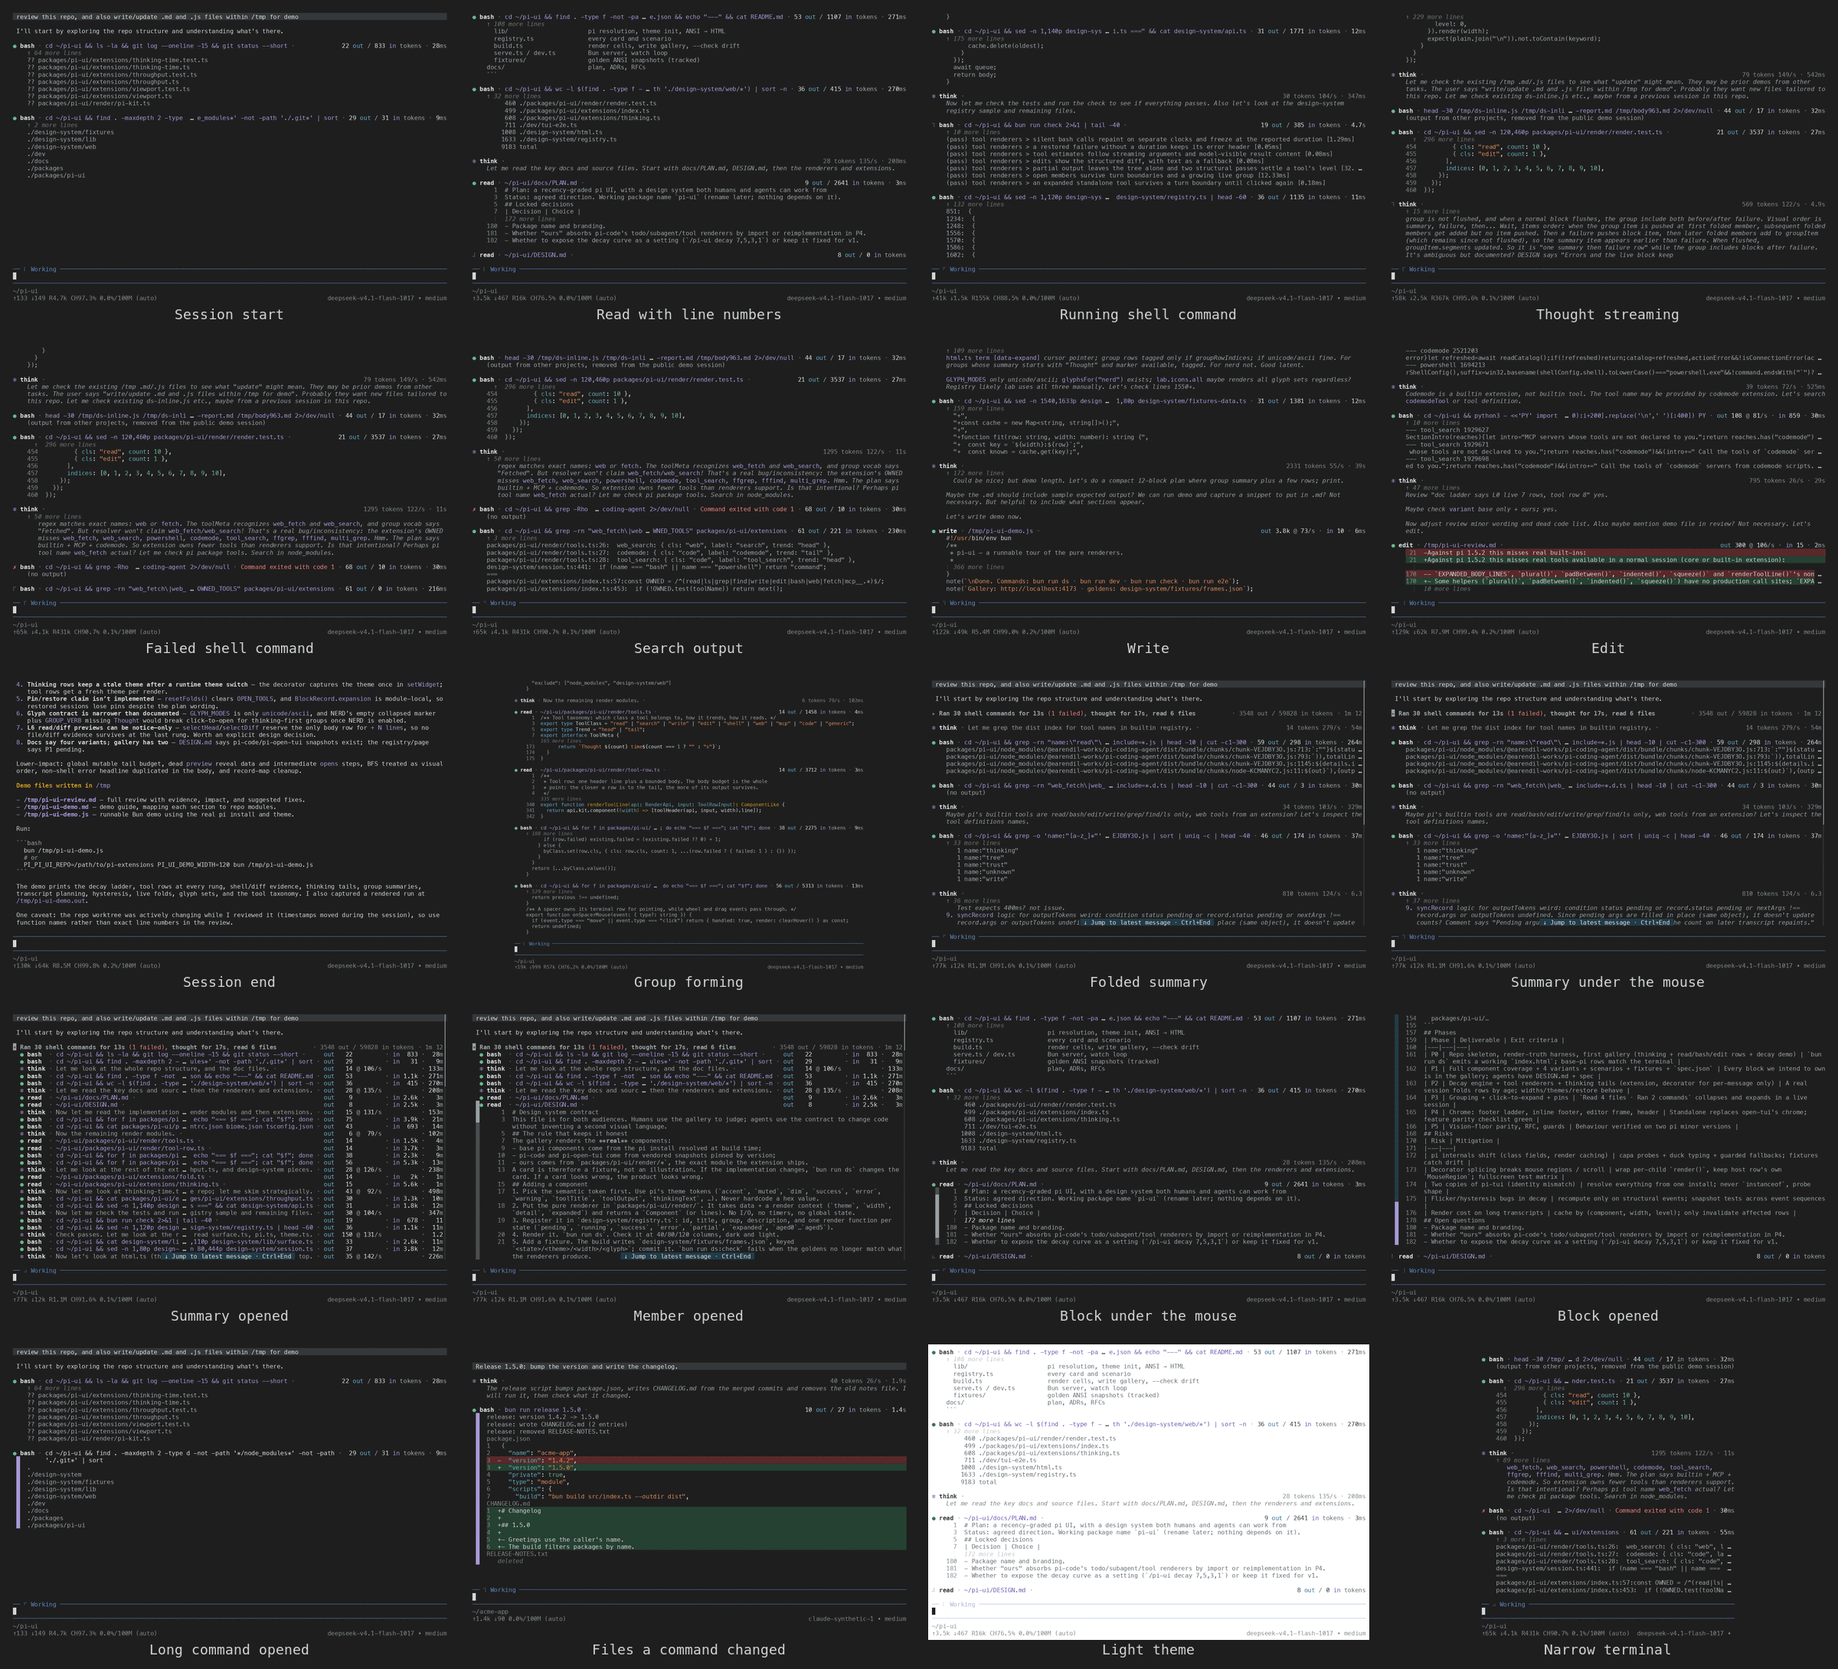
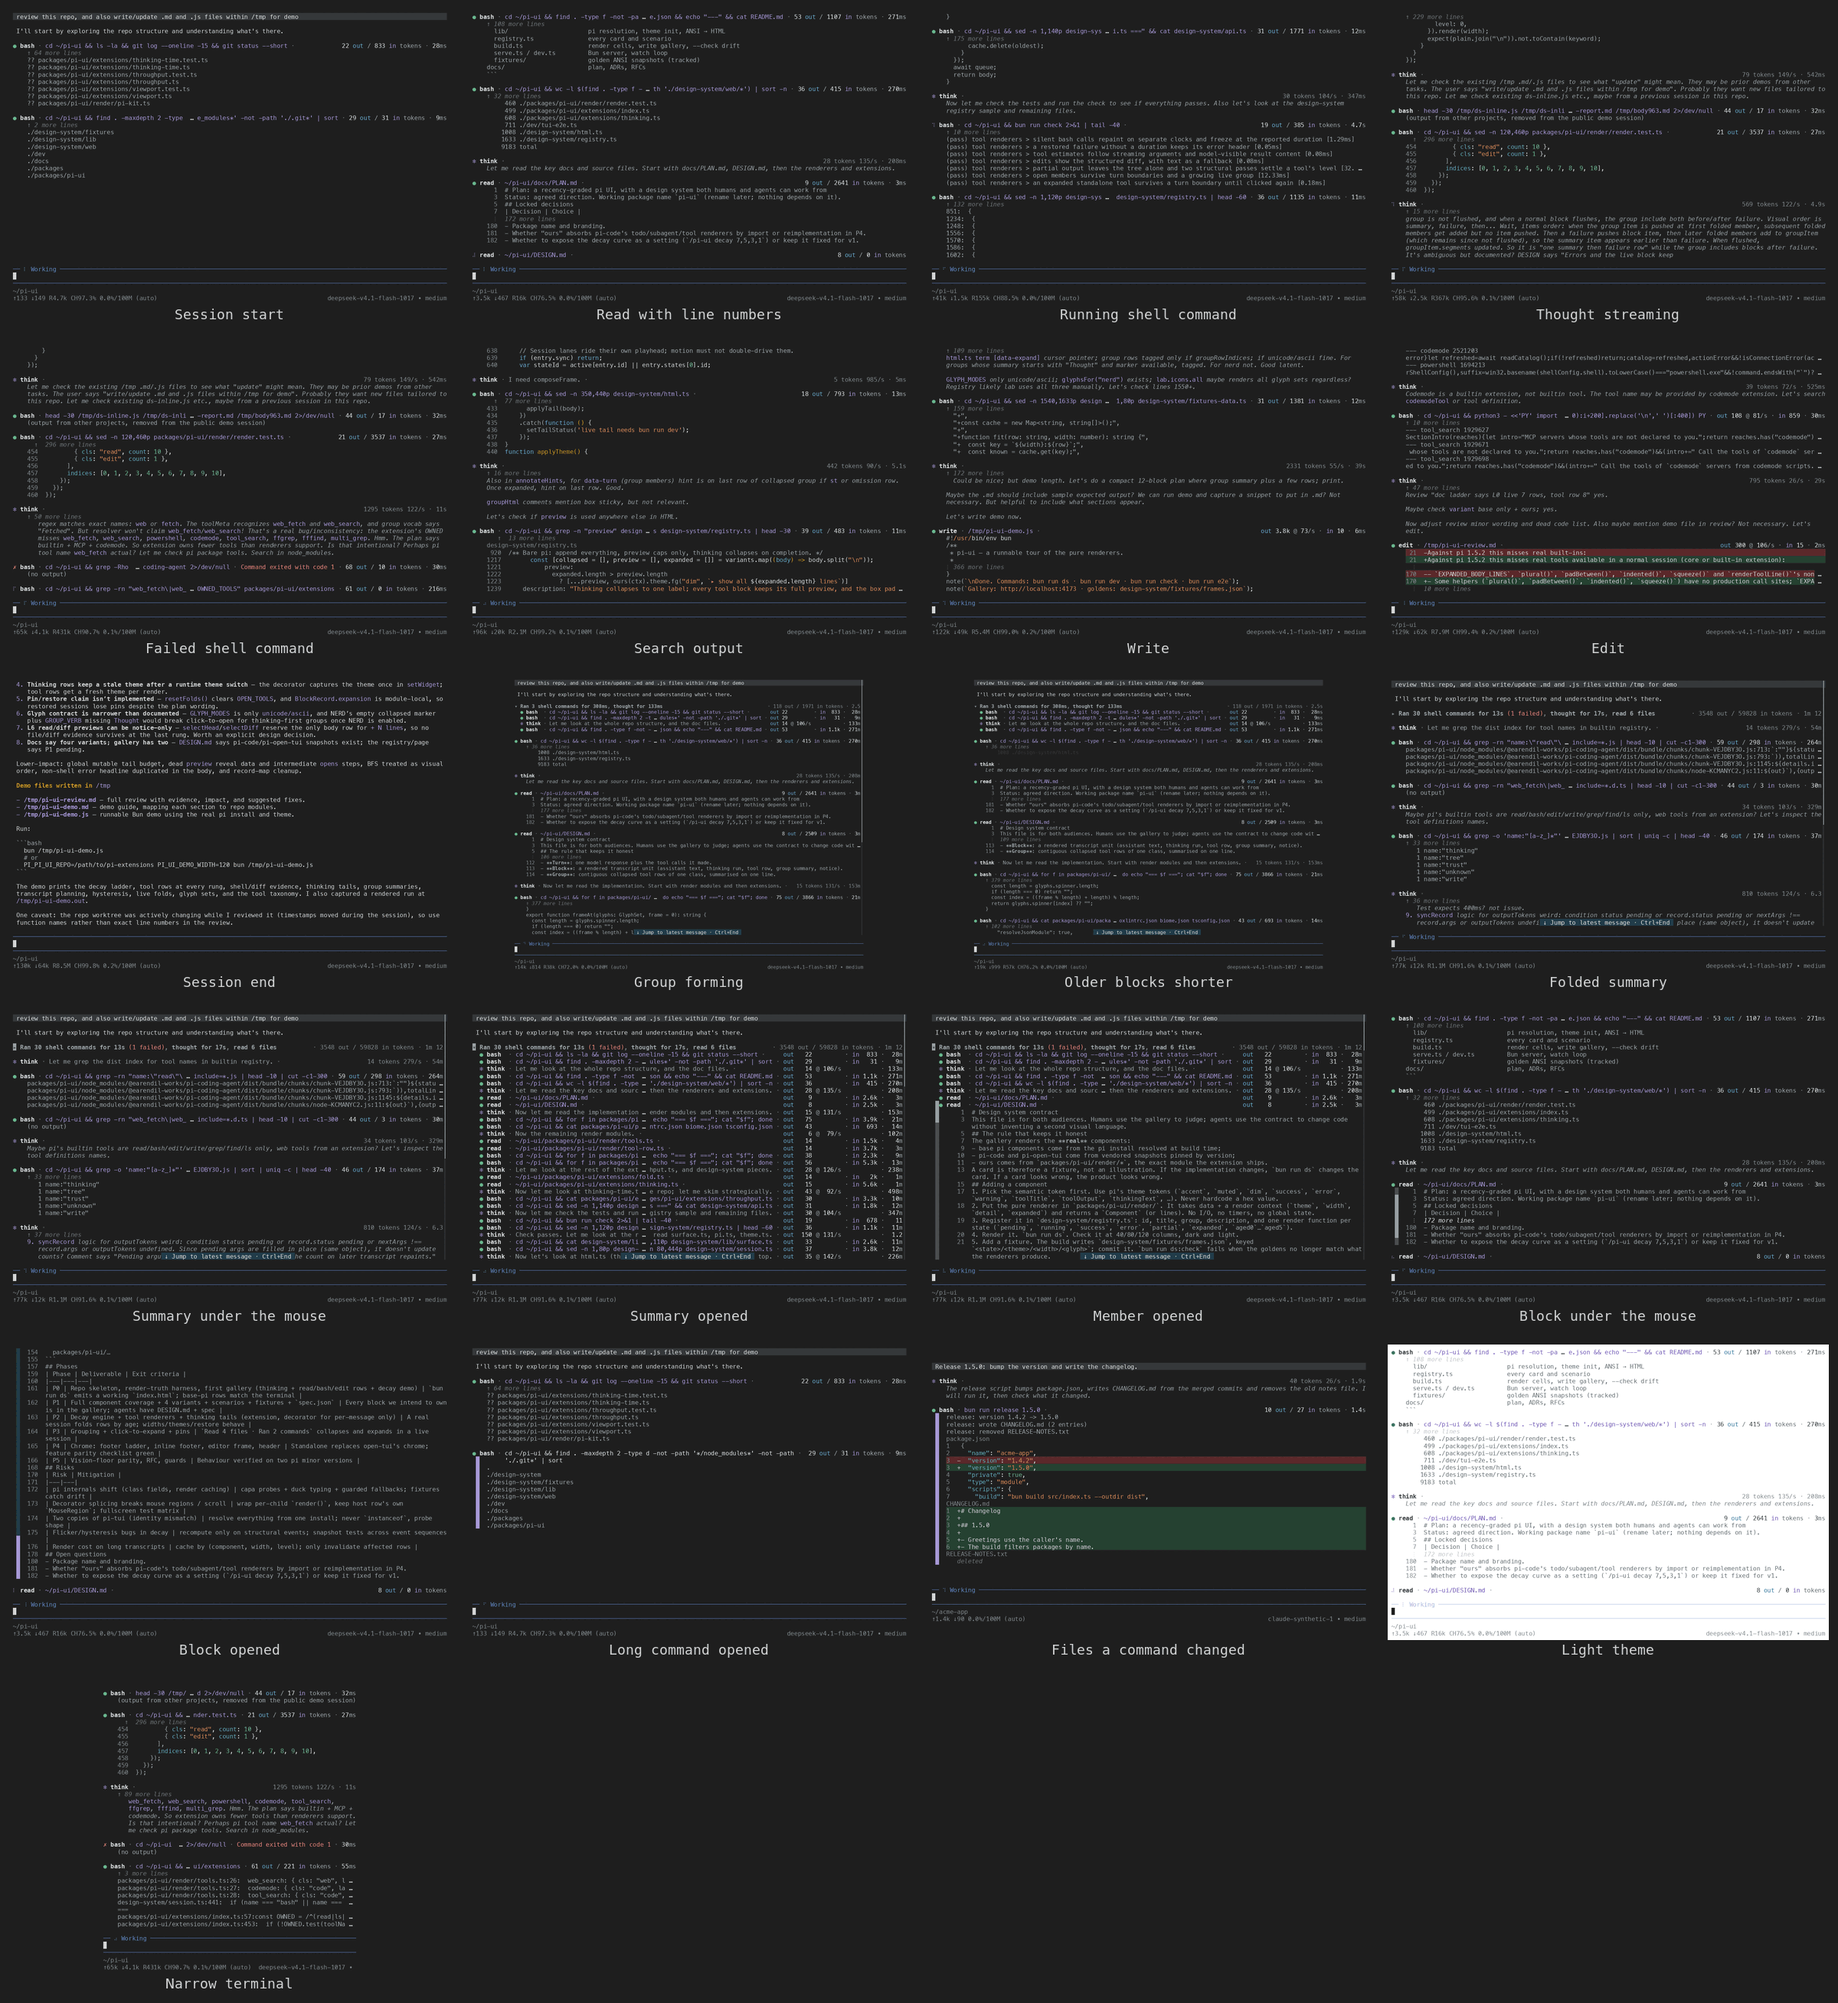
docs: states for a forming group, decaying blocks and search output
Rendered by bun run states at c97cc95. grep-output gives way to
search-output; group-forming now shows the group listing its members; the
new blocks-decaying shows older blocks losing lines.

Changed region(s): [[0.0, 0.0, 1.0, 0.9982], [0.8125, 0.8734, 0.9375, 0.9982], [0.0, 0.0, 0.1562, 0.0936]]

diff --git a/docs/states/README.md b/docs/states/README.md
@@ -36,9 +36,9 @@ A failed command shows its exit code in the header, after a settled thought.
 
 ## Search output
 
-grep output under its command, after older blocks lost lines.
+grep over several files: a header per file, line numbers in a gutter, and highlighting.
 
-![Search output](grep-output.png)
+![Search output](search-output.png)
 
 ## Write
 
@@ -63,6 +63,12 @@ The final answer, after every block above it folded.
 The newest folded group lists its members under its summary while it has five or fewer.
 
 ![Group forming](group-forming.png)
+
+## Older blocks shorter
+
+Blocks lose lines as newer ones arrive, the oldest down to a notice and a few lines; one row is fading out.
+
+![Older blocks shorter](blocks-decaying.png)
 
 ## Folded summary
 
